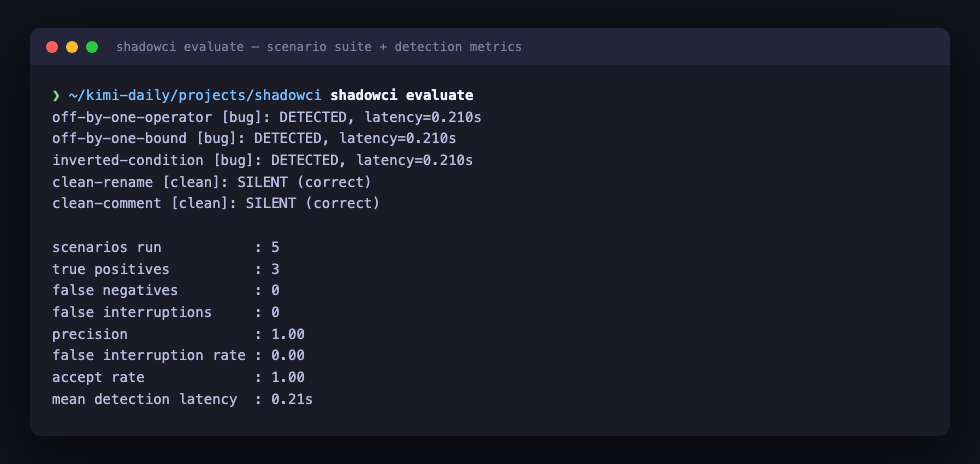
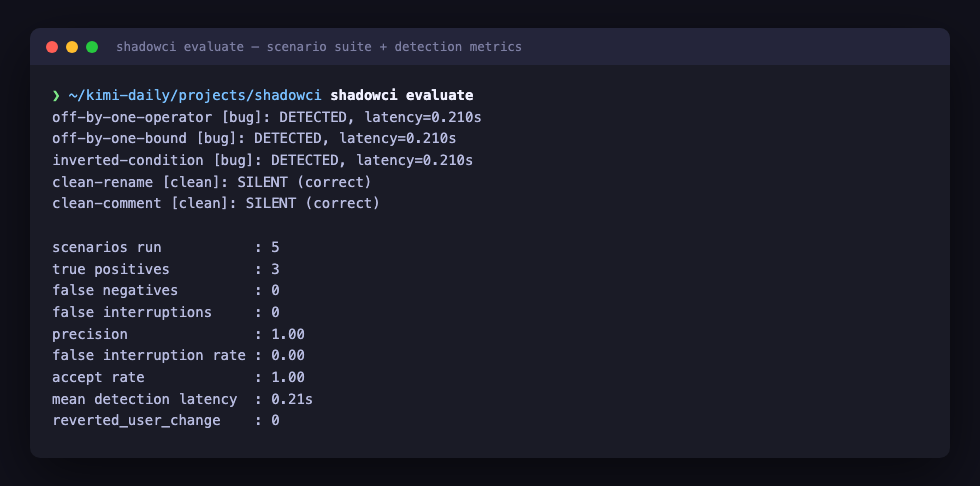
Fix #35: Evaluation has no scenario for an intentional behaviour change, so false interruptions go unmeasured (#41)
* test: cover issue #35 — evaluation has no scenario for an intentional behavior change

Add regression tests for a new intentional_behavior_change_scenario
(average([]) is changed on purpose to return 0 instead of raising), a
Scenario.expected_outcome ground truth field ("fix"/"silent"/"ask") that
old saved scenario JSON without the field still loads correctly against,
and a reverted_user_change evaluation metric that should flag this new
scenario's "natural" fix for undoing the user's intentional change while
staying at 0 for every existing bug/clean scenario. Also assert the CLI
prints the new metric.

* Fix #35: evaluate now measures fixes that revert an intentional change

Add intentional_behavior_change_scenario: average([]) is changed on
purpose to return 0 instead of raising, breaking the existing test
expecting the old behavior. The scripted provider's "natural" fix
restores the old behavior, exactly undoing the user's edit.

Scenario gains an explicit expected_outcome ("fix"/"silent"/"ask"),
defaulting from bug_expected so existing scenarios and saved scenario
JSON without the field keep behaving as before.

EvaluationReport gains reverted_user_change: a saved, verified fix
whose diff puts back lines the user's edit changed (compared against
git diff HEAD of the shadow worktree) for a scenario whose ground
truth isn't "fix". shadowci evaluate prints the new metric.

Changed region(s): [[0.0306, 0.181, 0.4898, 0.4526], [0.0306, 0.4828, 0.3367, 0.875], [0.0306, 0.0905, 0.551, 0.1207]]

diff --git a/src/shadowci/evaluation/scenarios.py b/src/shadowci/evaluation/scenarios.py
@@ -32,12 +32,27 @@ from shadowci.evaluation.session import (
 
 @dataclass(frozen=True)
 class Scenario:
-    """A session plus the ground truth its replay is scored against."""
+    """A session plus the ground truth its replay is scored against.
+
+    `expected_outcome` is the explicit ground truth ("fix", "silent", or
+    "ask") the harness should eventually be scored against. `bug_expected`
+    remains the boolean existing replay logic (accept vs. reject
+    simulation) keys off, and defaults `expected_outcome` to "fix"/"silent"
+    when a scenario doesn't set it explicitly — which is also what a
+    scenario JSON file saved before this field existed loads as.
+    """
 
     session: RecordedSession
     bug_expected: bool
     regression_test: str | None = None
     proposed_fix: str | None = None
+    expected_outcome: str | None = None
+
+    def __post_init__(self) -> None:
+        if self.expected_outcome is None:
+            object.__setattr__(
+                self, "expected_outcome", "fix" if self.bug_expected else "silent"
+            )
 
 
 def scenario_to_dict(scenario: Scenario) -> dict:
@@ -46,6 +61,7 @@ def scenario_to_dict(scenario: Scenario) -> dict:
         "bug_expected": scenario.bug_expected,
         "regression_test": scenario.regression_test,
         "proposed_fix": scenario.proposed_fix,
+        "expected_outcome": scenario.expected_outcome,
     }
 
 
@@ -55,6 +71,7 @@ def scenario_from_dict(data: dict) -> Scenario:
         bug_expected=bool(data["bug_expected"]),
         regression_test=data.get("regression_test"),
         proposed_fix=data.get("proposed_fix"),
+        expected_outcome=data.get("expected_outcome"),
     )
 
 
@@ -214,6 +231,66 @@ def clean_comment_scenario() -> Scenario:
             "from util import double\n\n\ndef test_double():\n    assert double(3) == 6\n"
         ),
         harmless_edit="def double(x):\n    # scale by two\n    return x * 2\n",
+    )
+
+
+def intentional_behavior_change_scenario() -> Scenario:
+    """A save changes `average([])` from raising to returning 0 on purpose,
+    breaking the existing test that expects the old, raising behavior.
+
+    This is not a bug scenario and not a clean one: the edit is an
+    intentional behavior change, so the "natural" fix a provider proposes
+    — restoring the old behavior — would undo exactly what the user meant
+    to do. `expected_outcome="ask"` marks that the right response is
+    neither to fix nor to stay silent, but to ask. `bug_expected=False`
+    keeps it scored as a false interruption whenever the pipeline (which
+    has no way to tell "on purpose" from "accidental") surfaces a fix
+    anyway, as it does today.
+    """
+    module_filename = "average.py"
+    test_filename = "tests/test_average.py"
+    clean_content = (
+        "def average(values):\n"
+        "    total = sum(values)\n"
+        "    return total / len(values)\n"
+    )
+    changed_content = (
+        "def average(values):\n"
+        "    if not values:\n"
+        "        return 0\n"
+        "    total = sum(values)\n"
+        "    return total / len(values)\n"
+    )
+    regression_test = (
+        "import pytest\n\n"
+        "from average import average\n\n\n"
+        "def test_average_of_empty_list_raises():\n"
+        "    with pytest.raises(ZeroDivisionError):\n"
+        "        average([])\n"
+    )
+    proposed_fix = (
+        "--- a/average.py\n+++ b/average.py\n@@ -1,5 +1,3 @@\n"
+        " def average(values):\n"
+        "-    if not values:\n"
+        "-        return 0\n"
+        "     total = sum(values)\n"
+        "     return total / len(values)\n"
+    )
+    session = RecordedSession(
+        name="intentional-behavior-change",
+        description=(
+            "a save makes average([]) return 0 on purpose instead of raising, "
+            "breaking the test that expects the old behavior"
+        ),
+        initial_files={module_filename: clean_content, test_filename: regression_test},
+        edits=(RecordedEdit(module_filename, ChangeKind.MODIFIED, 0.0, changed_content),),
+    )
+    return Scenario(
+        session=session,
+        bug_expected=False,
+        regression_test=regression_test,
+        proposed_fix=proposed_fix,
+        expected_outcome="ask",
     )
 
 

diff --git a/src/shadowci/evaluation/harness.py b/src/shadowci/evaluation/harness.py
@@ -71,6 +71,37 @@ def _run_git(args: list[str], cwd: Path) -> None:
     subprocess.run(["git", *args], cwd=cwd, check=True, capture_output=True, text=True)
 
 
+def _git_diff_head(cwd: Path) -> str:
+    result = subprocess.run(
+        ["git", "diff", "HEAD"], cwd=cwd, check=True, capture_output=True, text=True
+    )
+    return result.stdout
+
+
+def _diff_added_and_removed_lines(diff_text: str) -> tuple[set[str], set[str]]:
+    """The content lines a unified diff adds and removes, headers excluded."""
+    added: set[str] = set()
+    removed: set[str] = set()
+    for line in diff_text.splitlines():
+        if line.startswith(("+++", "---")):
+            continue
+        if line.startswith("+"):
+            added.add(line[1:])
+        elif line.startswith("-"):
+            removed.add(line[1:])
+    return added, removed
+
+
+def _fix_reverts_user_change(user_diff: str, fix_diff: str) -> bool:
+    """Whether `fix_diff` puts back lines `user_diff` changed: the fix adds
+    back what the user removed, or removes what the user added (or both)."""
+    if not user_diff.strip() or not fix_diff.strip():
+        return False
+    user_added, user_removed = _diff_added_and_removed_lines(user_diff)
+    fix_added, fix_removed = _diff_added_and_removed_lines(fix_diff)
+    return bool(fix_added & user_removed) or bool(fix_removed & user_added)
+
+
 def _init_repo(root: Path, initial_files: dict[str, str]) -> None:
     root.mkdir(parents=True, exist_ok=True)
     _run_git(["init", "-q"], cwd=root)
@@ -102,6 +133,7 @@ class ChangeSetOutcome:
 
     detected_at: float
     outcome: pipeline.PipelineOutcome
+    user_diff: str = ""
 
 
 @dataclass(frozen=True)
@@ -113,6 +145,7 @@ class ScenarioResult:
     detected: bool = False
     detection_latency_seconds: float | None = None
     action: str | None = None  # "accept", "reject", or None
+    reverted_user_change: bool = False
 
     @property
     def true_positive(self) -> bool:
@@ -188,11 +221,12 @@ def run_scenario(
             if not touched:
                 continue
 
+            user_diff = _git_diff_head(worktree.path)
             clear_bytecode_cache(worktree.path)
             result = pipeline.run_checks_and_maybe_escalate(
                 changeset, worktree, config, create_provider
             )
-            changesets.append(ChangeSetOutcome(detected_at=now, outcome=result))
+            changesets.append(ChangeSetOutcome(detected_at=now, outcome=result, user_diff=user_diff))
 
         detected_at = next(
             (cs.detected_at for cs in changesets if cs.outcome.ghost_patch is not None),
@@ -213,12 +247,22 @@ def run_scenario(
 
         latency = None if detected_at is None else detected_at - bug_introduced_at
 
+        reverted_user_change = scenario.expected_outcome != "fix" and any(
+            changeset_outcome.outcome.ghost_patch is not None
+            and changeset_outcome.outcome.proposed_fix is not None
+            and _fix_reverts_user_change(
+                changeset_outcome.user_diff, changeset_outcome.outcome.proposed_fix
+            )
+            for changeset_outcome in changesets
+        )
+
         return ScenarioResult(
             scenario=scenario,
             changesets=tuple(changesets),
             detected=detected_at is not None,
             detection_latency_seconds=latency,
             action=action,
+            reverted_user_change=reverted_user_change,
         )
 
 
@@ -260,6 +304,10 @@ class EvaluationReport:
         accepts = sum(1 for result in self.results if result.action == "accept")
         total_actions = sum(1 for result in self.results if result.action is not None)
         return None if total_actions == 0 else accepts / total_actions
+
+    @property
+    def reverted_user_change(self) -> int:
+        return sum(1 for result in self.results if result.reverted_user_change)
 
     @property
     def mean_detection_latency_seconds(self) -> float | None:

diff --git a/tests/test_evaluation_scenarios.py b/tests/test_evaluation_scenarios.py
@@ -1,7 +1,10 @@
 from pathlib import Path
 
+import pytest
+
 from shadowci.evaluation.scenarios import (
     built_in_scenarios,
+    intentional_behavior_change_scenario,
     load_scenario,
     off_by_one_operator_scenario,
     save_scenario,
@@ -50,3 +53,58 @@ def test_scenario_round_trips_through_a_file(tmp_path: Path):
     restored = load_scenario(path)
 
     assert restored == scenario
+
+
+def test_built_in_scenarios_carry_an_expected_outcome_matching_bug_expected():
+    for scenario in built_in_scenarios():
+        if scenario.bug_expected:
+            assert scenario.expected_outcome == "fix"
+        else:
+            assert scenario.expected_outcome == "silent"
+
+
+def test_scenario_without_a_saved_expected_outcome_field_still_loads_and_behaves_as_before():
+    # Simulates a scenario JSON file saved before `expected_outcome` existed.
+    scenario = off_by_one_operator_scenario()
+    data = scenario_to_dict(scenario)
+    data.pop("expected_outcome", None)
+
+    restored = scenario_from_dict(data)
+
+    assert restored.bug_expected == scenario.bug_expected
+    assert restored.regression_test == scenario.regression_test
+    assert restored.proposed_fix == scenario.proposed_fix
+    assert restored.expected_outcome == "fix"
+
+
+def test_intentional_behavior_change_scenario_has_an_ask_outcome_not_fix_or_silent():
+    scenario = intentional_behavior_change_scenario()
+
+    assert scenario.expected_outcome == "ask"
+    assert scenario.regression_test is not None
+    assert scenario.proposed_fix is not None
+    assert len(scenario.session.edits) == 1
+
+
+def test_intentional_behavior_change_scenario_edit_changes_behavior_on_purpose():
+    # average([]) used to raise; the edit makes it return 0 instead — an
+    # intentional change, not an accidental off-by-one or inverted guard.
+    scenario = intentional_behavior_change_scenario()
+    session = scenario.session
+    edit = session.edits[0]
+
+    before_src = session.initial_files[edit.relative_path]
+    after_src = edit.content
+    assert after_src is not None
+
+    before_ns: dict = {}
+    exec(before_src, before_ns)
+    after_ns: dict = {}
+    exec(after_src, after_ns)
+
+    before_fn = next(value for value in before_ns.values() if callable(value))
+    after_fn = next(value for value in after_ns.values() if callable(value))
+
+    with pytest.raises(ZeroDivisionError):
+        before_fn([])
+    assert after_fn([]) == 0

diff --git a/tests/test_evaluation_harness.py b/tests/test_evaluation_harness.py
@@ -13,6 +13,7 @@ from shadowci.evaluation.scenarios import (
     Scenario,
     built_in_scenarios,
     clean_comment_scenario,
+    intentional_behavior_change_scenario,
     off_by_one_bound_scenario,
     off_by_one_operator_scenario,
 )
@@ -75,6 +76,28 @@ def test_evaluation_report_metrics_are_none_with_no_data():
     assert report.false_interruption_rate is None
     assert report.accept_rate is None
     assert report.mean_detection_latency_seconds is None
+
+
+def test_evaluation_report_reverted_user_change_is_zero_with_no_data():
+    report = EvaluationReport(results=())
+
+    assert report.reverted_user_change == 0
+
+
+def test_run_suite_never_reverts_a_user_change_for_the_built_in_scenarios():
+    # Every built-in scenario is either a genuine bug (reverting it back to
+    # clean is the correct fix) or a clean edit (no fix is ever produced).
+    report = run_suite(built_in_scenarios())
+
+    assert report.reverted_user_change == 0
+
+
+def test_run_suite_flags_the_intentional_change_scenario_as_a_reverted_user_change():
+    # The scripted provider's "natural" fix undoes the user's on-purpose
+    # behavior change — exactly the false positive issue #35 measures.
+    report = run_suite((intentional_behavior_change_scenario(),))
+
+    assert report.reverted_user_change == 1
 
 
 def test_run_convergence_requires_a_bug_scenario_with_test_and_fix():

diff --git a/tests/test_cli_evaluate.py b/tests/test_cli_evaluate.py
@@ -15,6 +15,7 @@ def test_evaluate_runs_the_built_in_suite_and_reports_metrics(capsys):
     assert "false interruption rate" in out
     assert "accept rate" in out
     assert "mean detection latency" in out
+    assert "reverted_user_change" in out
 
 
 def test_evaluate_save_dir_writes_scenario_json_without_running(tmp_path: Path, capsys):

diff --git a/src/shadowci/cli.py b/src/shadowci/cli.py
@@ -417,6 +417,7 @@ def _cmd_evaluate(args: argparse.Namespace) -> int:
         "mean detection latency  : "
         f"{_format_metric(report.mean_detection_latency_seconds, suffix='s')}"
     )
+    print(f"reverted_user_change    : {report.reverted_user_change}")
     return 0
 
 

diff --git a/README.md b/README.md
@@ -50,7 +50,12 @@ An evaluation harness (`shadowci evaluate`) replays a suite of recorded
 sessions — some with a synthetically injected bug, some clean edits that
 should never trigger anything — through that exact same pipeline on a
 simulated clock, and reports detection latency, precision, accept rate,
-and false interruptions with no human in the loop.
+false interruptions, and `reverted_user_change` with no human in the loop.
+That last metric counts a saved, verified fix whose diff would put back
+lines the user had deliberately changed — the case where a confidently
+"verified" fix is still the wrong call because the edit broke an old test
+on purpose, exercised by the (not built-in) `intentional-behavior-change`
+scenario in `shadowci.evaluation.scenarios`.
 
 `shadowci doctor` checks whether ShadowCI can actually work in the current
 project — is it a git repository, can `shadowci.toml` be read, does the
@@ -181,7 +186,8 @@ drops off the pending list immediately.
 **`shadowci evaluate`** — the evaluation harness replays a built-in suite
 of synthetic bug-injected and clean scenarios through the real pipeline on
 a simulated clock, with no human in the loop, and reports detection
-latency, precision, accept rate, and false interruptions.
+latency, precision, accept rate, false interruptions, and
+`reverted_user_change`.
 
 ![shadowci evaluate running the built-in scenario suite](docs/screenshots/17-evaluate.png)
 
@@ -298,7 +304,8 @@ ShadowCI's planned feature set is complete and fully tested (190 tests):
 - `shadowci evaluate`: an evaluation harness that replays recorded
   (optionally synthetic-bug-injected) sessions through the real pipeline on
   a simulated clock and reports detection latency, precision, accept rate,
-  and false interruptions with no human in the loop.
+  false interruptions, and `reverted_user_change` (a saved fix that would
+  undo an on-purpose user edit) with no human in the loop.
 - `shadowci doctor`: diagnoses whether ShadowCI can work in this project
   (git repo, config, shadow worktree, configured provider, pytest/mypy/
   ruff, stale ghost patches), printing `OK`/`WARN`/`FAIL` plus a `Try:` fix
